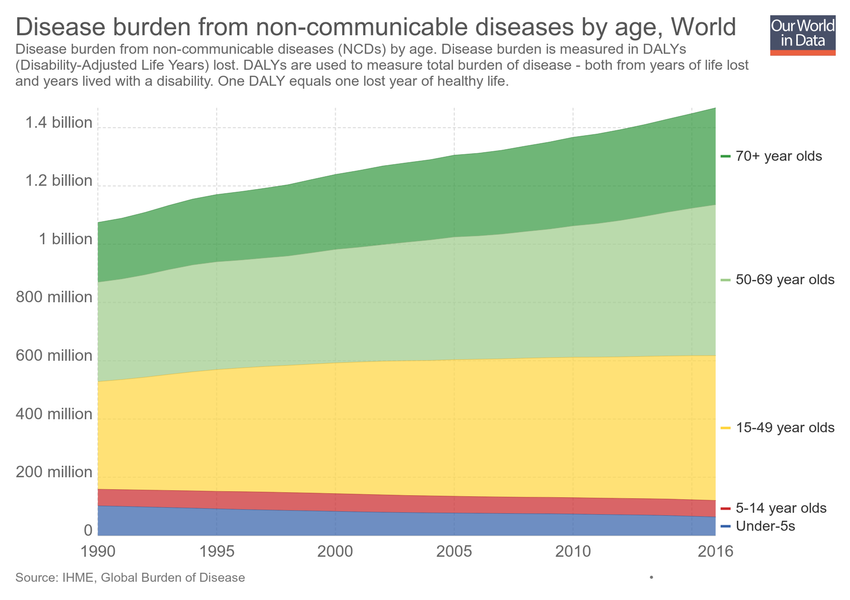
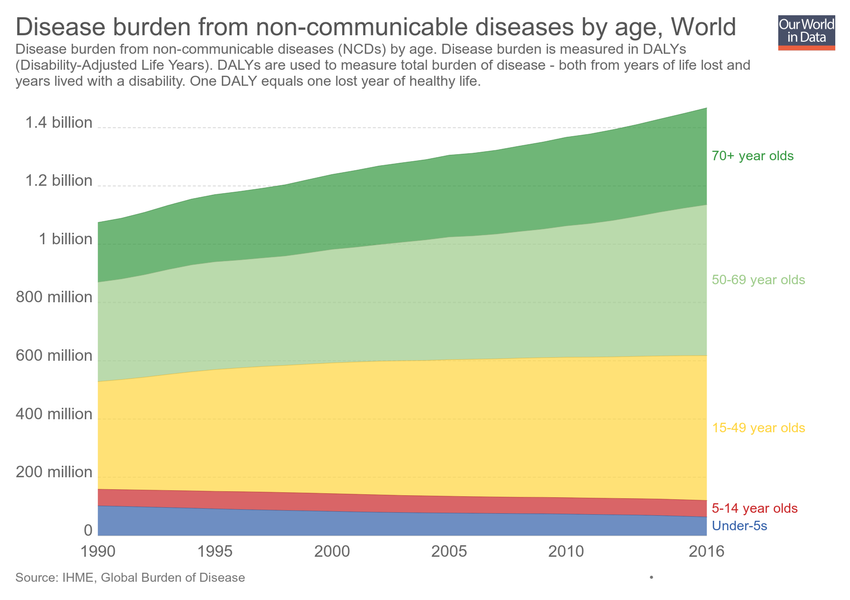
Updating chart disease-burden-from-ncds-by-age

diff --git a/grapher/disease-burden-from-ncds-by-age.html b/grapher/disease-burden-from-ncds-by-age.html
@@ -1,4 +1,4 @@
-<!doctype html><html><head><meta name="viewport" content="width=device-width, initial-scale=1" /><title>Disease burden from non-communicable diseases by age - Our World in Data</title><meta name="description" content="Disease burden from non-communicable diseases (NCDs) by age. Disease burden is measured in DALYs (Disability-Adjusted Life Years) lost. DALYs are used to measure total burden of disease - both from years of life lost and years lived with a disability. One DALY equals one lost year of healthy life." /><link rel="canonical" href="https://ourworldindata.org/grapher/disease-burden-from-ncds-by-age" /><meta property="fb:app_id" content="1149943818390250" /><meta property="og:url" content="https://ourworldindata.org/grapher/disease-burden-from-ncds-by-age" /><meta property="og:title" content="Disease burden from non-communicable diseases by age" /><meta property="og:description" content="Disease burden from non-communicable diseases (NCDs) by age. Disease burden is measured in DALYs (Disability-Adjusted Life Years) lost. DALYs are used to measure total burden of disease - both from years of life lost and years lived with a disability. One DALY equals one lost year of healthy life." /><meta property="og:image" content="https://ourworldindata.org/grapher/exports/disease-burden-from-ncds-by-age.png?v=1" /><meta property="og:image:width" content="850" /><meta property="og:image:height" content="600" /><meta property="og:site_name" content="Our World in Data" /><meta name="twitter:card" content="summary_large_image" /><meta name="twitter:site" content="@OurWorldInData" /><meta name="twitter:creator" content="@OurWorldInData" /><meta name="twitter:title" content="Disease burden from non-communicable diseases by age" /><meta name="twitter:description" content="Disease burden from non-communicable diseases (NCDs) by age. Disease burden is measured in DALYs (Disability-Adjusted Life Years) lost. DALYs are used to measure total burden of disease - both from years of life lost and years lived with a disability. One DALY equals one lost year of healthy life." /><meta name="twitter:image" content="https://ourworldindata.org/grapher/exports/disease-burden-from-ncds-by-age.png?v=1" /><style>
+<!doctype html><html><head><meta name="viewport" content="width=device-width, initial-scale=1" /><title>Disease burden from non-communicable diseases by age - Our World in Data</title><meta name="description" content="Disease burden from non-communicable diseases (NCDs) by age. Disease burden is measured in DALYs (Disability-Adjusted Life Years). DALYs are used to measure total burden of disease - both from years of life lost and years lived with a disability. One DALY equals one lost year of healthy life." /><link rel="canonical" href="https://ourworldindata.org/grapher/disease-burden-from-ncds-by-age" /><meta property="fb:app_id" content="1149943818390250" /><meta property="og:url" content="https://ourworldindata.org/grapher/disease-burden-from-ncds-by-age" /><meta property="og:title" content="Disease burden from non-communicable diseases by age" /><meta property="og:description" content="Disease burden from non-communicable diseases (NCDs) by age. Disease burden is measured in DALYs (Disability-Adjusted Life Years). DALYs are used to measure total burden of disease - both from years of life lost and years lived with a disability. One DALY equals one lost year of healthy life." /><meta property="og:image" content="https://ourworldindata.org/grapher/exports/disease-burden-from-ncds-by-age.png?v=2" /><meta property="og:image:width" content="850" /><meta property="og:image:height" content="600" /><meta property="og:site_name" content="Our World in Data" /><meta name="twitter:card" content="summary_large_image" /><meta name="twitter:site" content="@OurWorldInData" /><meta name="twitter:creator" content="@OurWorldInData" /><meta name="twitter:title" content="Disease burden from non-communicable diseases by age" /><meta name="twitter:description" content="Disease burden from non-communicable diseases (NCDs) by age. Disease burden is measured in DALYs (Disability-Adjusted Life Years). DALYs are used to measure total burden of disease - both from years of life lost and years lived with a disability. One DALY equals one lost year of healthy life." /><meta name="twitter:image" content="https://ourworldindata.org/grapher/exports/disease-burden-from-ncds-by-age.png?v=2" /><style>
         html, body {
             height: 100%;
             margin: 0;
@@ -20,8 +20,8 @@
         }
     </style><noscript><style>
                     figure { display: none !important; }
-                </style></noscript><link rel="stylesheet" href="https://ourworldindata.org/grapher/assets/commons.bundle.a7ce280024c736539280.css" /><link rel="preload" href="/grapher/data/variables/62909+62913+62919+62915+62917.json?v=1" as="fetch" crossorigin /></head><body class="singleChart"><figure data-grapher-src="/grapher/disease-burden-from-ncds-by-age"></figure><noscript id="fallback"><img src="/grapher/exports/disease-burden-from-ncds-by-age.svg" /><p>Interactive visualization requires JavaScript</p></noscript><script src="https://cdn.polyfill.io/v2/polyfill.min.js?features=es6,fetch"></script><script src="https://ourworldindata.org/grapher/assets/commons.bundle.a7ce280024c736539280.js"></script><script src="https://ourworldindata.org/grapher/assets/charts.bundle.dcf65b68eddaba4c6a58.js"></script><script>
-        var jsonConfig = {"map":{"projection":"World","colorSchemeLabels":[],"colorSchemeValues":[],"defaultProjection":"World","colorSchemeMinValue":0,"customNumericColors":[],"customCategoryColors":{},"customCategoryLabels":{},"customHiddenCategories":{}},"tab":"chart","slug":"disease-burden-from-ncds-by-age","type":"StackedArea","title":"Disease burden from non-communicable diseases by age","xAxis":{"scaleType":"linear"},"yAxis":{"min":0,"scaleType":"linear"},"version":1,"subtitle":"Disease burden from non-communicable diseases (NCDs) by age. Disease burden is measured in DALYs (Disability-Adjusted Life Years) lost. DALYs are used to measure total burden of disease - both from years of life lost and years lived with a disability. One DALY equals one lost year of healthy life.","hasMapTab":false,"stackMode":"absolute","dimensions":[{"display":{"name":"Under-5s","unit":"DALYs lost"},"property":"y","variableId":62909,"numDecimalPlaces":0},{"display":{"name":"5-14 year olds","unit":"DALYs lost"},"property":"y","variableId":62913,"numDecimalPlaces":0},{"display":{"name":"70+ year olds","unit":"DALYs lost"},"property":"y","variableId":62919,"numDecimalPlaces":0},{"display":{"name":"15-49 year olds","unit":"DALYs lost"},"property":"y","variableId":62915,"numDecimalPlaces":0},{"display":{"name":"50-69 year olds","unit":"DALYs lost"},"property":"y","variableId":62917,"numDecimalPlaces":0}],"sourceDesc":"IHME, Global Burden of Disease","hasChartTab":true,"isPublished":true,"selectedData":[{"index":2,"entityId":355},{"index":4,"entityId":355},{"index":3,"entityId":355},{"index":1,"entityId":355},{"index":0,"entityId":355}],"addCountryMode":"change-country","id":2211};
+                </style></noscript><link rel="stylesheet" href="https://ourworldindata.org/grapher/assets/commons.bundle.a7ce280024c736539280.css" /><link rel="preload" href="/grapher/data/variables/62909+62913+62919+62915+62917.json?v=2" as="fetch" crossorigin /></head><body class="singleChart"><figure data-grapher-src="/grapher/disease-burden-from-ncds-by-age"></figure><noscript id="fallback"><img src="/grapher/exports/disease-burden-from-ncds-by-age.svg" /><p>Interactive visualization requires JavaScript</p></noscript><script src="https://cdn.polyfill.io/v2/polyfill.min.js?features=es6,fetch"></script><script src="https://ourworldindata.org/grapher/assets/commons.bundle.a7ce280024c736539280.js"></script><script src="https://ourworldindata.org/grapher/assets/charts.bundle.dcf65b68eddaba4c6a58.js"></script><script>
+        var jsonConfig = {"id":2211,"map":{"projection":"World","colorSchemeLabels":[],"colorSchemeValues":[],"colorSchemeMinValue":0,"customNumericColors":[],"customCategoryColors":{},"customCategoryLabels":{},"customHiddenCategories":{}},"tab":"chart","slug":"disease-burden-from-ncds-by-age","type":"StackedArea","title":"Disease burden from non-communicable diseases by age","xAxis":{"scaleType":"linear"},"yAxis":{"min":0,"scaleType":"linear"},"version":2,"subtitle":"Disease burden from non-communicable diseases (NCDs) by age. Disease burden is measured in DALYs (Disability-Adjusted Life Years). DALYs are used to measure total burden of disease - both from years of life lost and years lived with a disability. One DALY equals one lost year of healthy life.","hasMapTab":false,"stackMode":"absolute","dimensions":[{"display":{"name":"Under-5s","unit":"DALYs lost"},"property":"y","variableId":62909},{"display":{"name":"5-14 year olds","unit":"DALYs lost"},"property":"y","variableId":62913},{"display":{"name":"70+ year olds","unit":"DALYs lost"},"property":"y","variableId":62919},{"display":{"name":"15-49 year olds","unit":"DALYs lost"},"property":"y","variableId":62915},{"display":{"name":"50-69 year olds","unit":"DALYs lost"},"property":"y","variableId":62917}],"sourceDesc":"IHME, Global Burden of Disease","hasChartTab":true,"isPublished":true,"selectedData":[{"index":2,"entityId":355},{"index":4,"entityId":355},{"index":3,"entityId":355},{"index":1,"entityId":355},{"index":0,"entityId":355}],"addCountryMode":"change-country"};
         var figure = document.getElementsByTagName("figure")[0];
         try {
             window.App = {};

diff --git a/grapher/disease-burden-vs-health-expenditure-per-capita.html b/grapher/disease-burden-vs-health-expenditure-per-capita.html
@@ -1,4 +1,4 @@
-<!doctype html><html><head><meta name="viewport" content="width=device-width, initial-scale=1" /><title>Disease burden vs. health expenditure per capita - Our World in Data</title><meta name="description" content="Total disease burden from all causes, measured as the number of Disability-Adjusted Life Years (DALYs) lost per 100,000 individuals, versus health expenditure per capita (measured in US$)." /><link rel="canonical" href="https://ourworldindata.org/grapher/disease-burden-vs-health-expenditure-per-capita" /><meta property="fb:app_id" content="1149943818390250" /><meta property="og:url" content="https://ourworldindata.org/grapher/disease-burden-vs-health-expenditure-per-capita" /><meta property="og:title" content="Disease burden vs. health expenditure per capita" /><meta property="og:description" content="Total disease burden from all causes, measured as the number of Disability-Adjusted Life Years (DALYs) lost per 100,000 individuals, versus health expenditure per capita (measured in US$)." /><meta property="og:image" content="https://ourworldindata.org/grapher/exports/disease-burden-vs-health-expenditure-per-capita.png?v=1" /><meta property="og:image:width" content="850" /><meta property="og:image:height" content="600" /><meta property="og:site_name" content="Our World in Data" /><meta name="twitter:card" content="summary_large_image" /><meta name="twitter:site" content="@OurWorldInData" /><meta name="twitter:creator" content="@OurWorldInData" /><meta name="twitter:title" content="Disease burden vs. health expenditure per capita" /><meta name="twitter:description" content="Total disease burden from all causes, measured as the number of Disability-Adjusted Life Years (DALYs) lost per 100,000 individuals, versus health expenditure per capita (measured in US$)." /><meta name="twitter:image" content="https://ourworldindata.org/grapher/exports/disease-burden-vs-health-expenditure-per-capita.png?v=1" /><style>
+<!doctype html><html><head><meta name="viewport" content="width=device-width, initial-scale=1" /><title>Disease burden vs. health expenditure per capita - Our World in Data</title><meta name="description" content="Total disease burden from all causes, measured as the number of Disability-Adjusted Life Years (DALYs) per 100,000 individuals, versus health expenditure per capita (measured in US$)." /><link rel="canonical" href="https://ourworldindata.org/grapher/disease-burden-vs-health-expenditure-per-capita" /><meta property="fb:app_id" content="1149943818390250" /><meta property="og:url" content="https://ourworldindata.org/grapher/disease-burden-vs-health-expenditure-per-capita" /><meta property="og:title" content="Disease burden vs. health expenditure per capita" /><meta property="og:description" content="Total disease burden from all causes, measured as the number of Disability-Adjusted Life Years (DALYs) per 100,000 individuals, versus health expenditure per capita (measured in US$)." /><meta property="og:image" content="https://ourworldindata.org/grapher/exports/disease-burden-vs-health-expenditure-per-capita.png?v=4" /><meta property="og:image:width" content="850" /><meta property="og:image:height" content="600" /><meta property="og:site_name" content="Our World in Data" /><meta name="twitter:card" content="summary_large_image" /><meta name="twitter:site" content="@OurWorldInData" /><meta name="twitter:creator" content="@OurWorldInData" /><meta name="twitter:title" content="Disease burden vs. health expenditure per capita" /><meta name="twitter:description" content="Total disease burden from all causes, measured as the number of Disability-Adjusted Life Years (DALYs) per 100,000 individuals, versus health expenditure per capita (measured in US$)." /><meta name="twitter:image" content="https://ourworldindata.org/grapher/exports/disease-burden-vs-health-expenditure-per-capita.png?v=4" /><style>
         html, body {
             height: 100%;
             margin: 0;
@@ -20,8 +20,8 @@
         }
     </style><noscript><style>
                     figure { display: none !important; }
-                </style></noscript><link rel="stylesheet" href="https://ourworldindata.org/grapher/assets/commons.bundle.a7ce280024c736539280.css" /><link rel="preload" href="/grapher/data/variables/56603+3366+72+123.json?v=1" as="fetch" crossorigin /></head><body class="singleChart"><figure data-grapher-src="/grapher/disease-burden-vs-health-expenditure-per-capita"></figure><noscript id="fallback"><img src="/grapher/exports/disease-burden-vs-health-expenditure-per-capita.svg" /><p>Interactive visualization requires JavaScript</p></noscript><script src="https://cdn.polyfill.io/v2/polyfill.min.js?features=es6,fetch"></script><script src="https://ourworldindata.org/grapher/assets/commons.bundle.a7ce280024c736539280.js"></script><script src="https://ourworldindata.org/grapher/assets/charts.bundle.dcf65b68eddaba4c6a58.js"></script><script>
-        var jsonConfig = {"map":{"projection":"World","colorSchemeLabels":[],"colorSchemeValues":[],"defaultProjection":"World","colorSchemeMinValue":0,"customNumericColors":[],"customCategoryColors":{},"customCategoryLabels":{},"customHiddenCategories":{}},"tab":"chart","slug":"disease-burden-vs-health-expenditure-per-capita","type":"ScatterPlot","title":"Disease burden vs. health expenditure per capita","xAxis":{"scaleType":"linear"},"yAxis":{"min":0,"scaleType":"linear"},"maxTime":2014,"minTime":2014,"version":1,"subtitle":"Total disease burden from all causes, measured as the number of Disability-Adjusted Life Years (DALYs) lost per 100,000 individuals, versus health expenditure per capita (measured in US$).","hasMapTab":false,"stackMode":"absolute","dimensions":[{"display":{"name":"Disease burden (DALYs per 100,000)","unit":"DALYs lost per 100,000"},"property":"y","variableId":56603},{"display":{},"property":"x","variableId":3366},{"display":{},"property":"size","variableId":72},{"display":{},"property":"color","variableId":123}],"isAutoSlug":true,"sourceDesc":"IHME, Global Burden of Disease, World Bank – WDI","hasChartTab":true,"isPublished":true,"selectedData":[],"addCountryMode":"add-country","id":2221};
+                </style></noscript><link rel="stylesheet" href="https://ourworldindata.org/grapher/assets/commons.bundle.a7ce280024c736539280.css" /><link rel="preload" href="/grapher/data/variables/56603+3366+72+123.json?v=4" as="fetch" crossorigin /></head><body class="singleChart"><figure data-grapher-src="/grapher/disease-burden-vs-health-expenditure-per-capita"></figure><noscript id="fallback"><img src="/grapher/exports/disease-burden-vs-health-expenditure-per-capita.svg" /><p>Interactive visualization requires JavaScript</p></noscript><script src="https://cdn.polyfill.io/v2/polyfill.min.js?features=es6,fetch"></script><script src="https://ourworldindata.org/grapher/assets/commons.bundle.a7ce280024c736539280.js"></script><script src="https://ourworldindata.org/grapher/assets/charts.bundle.dcf65b68eddaba4c6a58.js"></script><script>
+        var jsonConfig = {"id":2221,"map":{"projection":"World","colorSchemeLabels":[],"colorSchemeValues":[],"colorSchemeMinValue":0,"customNumericColors":[],"customCategoryColors":{},"customCategoryLabels":{},"customHiddenCategories":{}},"tab":"chart","slug":"disease-burden-vs-health-expenditure-per-capita","type":"ScatterPlot","title":"Disease burden vs. health expenditure per capita","xAxis":{"scaleType":"linear"},"yAxis":{"min":0,"scaleType":"linear"},"maxTime":2014,"minTime":2014,"version":4,"subtitle":"Total disease burden from all causes, measured as the number of Disability-Adjusted Life Years (DALYs) per 100,000 individuals, versus health expenditure per capita (measured in US$).","hasMapTab":false,"stackMode":"absolute","dimensions":[{"display":{"name":"Disease burden (DALYs per 100,000)","unit":"DALYs per 100,000"},"property":"y","variableId":56603},{"display":{},"property":"x","variableId":3366},{"display":{},"property":"size","variableId":72},{"display":{},"property":"color","variableId":123}],"sourceDesc":"IHME, Global Burden of Disease, World Bank – WDI","hasChartTab":true,"isPublished":true,"selectedData":[],"addCountryMode":"add-country"};
         var figure = document.getElementsByTagName("figure")[0];
         try {
             window.App = {};
